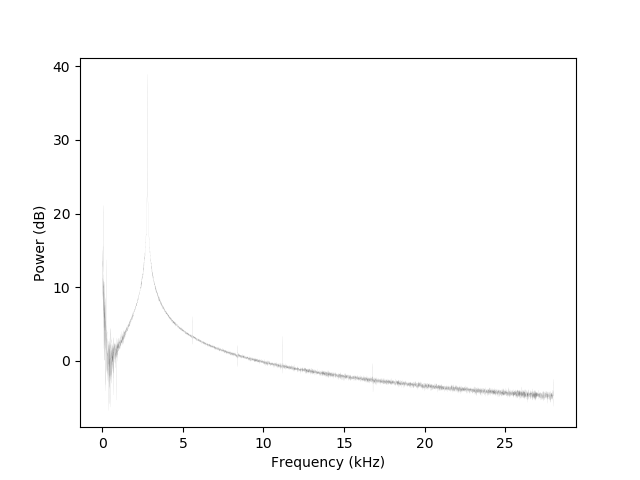
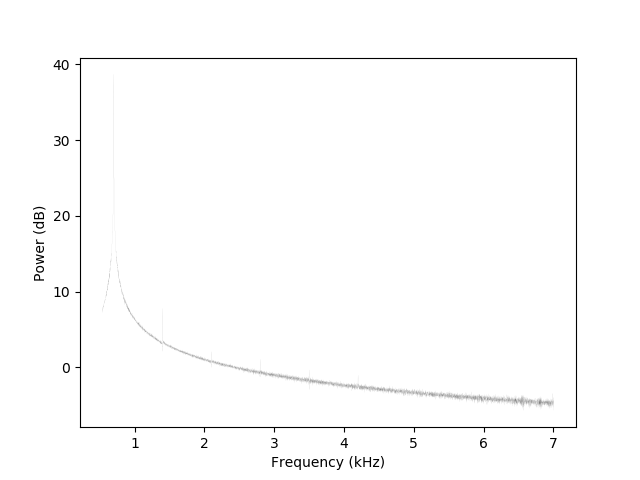
added png files for intermediate results

diff --git a/analyzeT.py b/analyzeT.py
@@ -33,7 +33,7 @@ def plotFFT(freqArray,fourier,filename,idx):
     plt.plot(freqArray[start:stop]/1000, magn[start:stop] , color='k', linewidth=0.02)
     plt.xlabel('Frequency (kHz)')
     plt.ylabel('Power (dB)')
-    plt.savefig('Results/'+filename+".png")
+    plt.savefig(filename+".png")
     plt.show()
     
 
@@ -55,7 +55,7 @@ def calcFFT(channel,rate,frate):
     # print ("Length of freqArray "+str(len(freqArray)))
     #print ("Max Value "+str('%.2f'%maxValue)+ " at "+str('%.2f'%maxFreq)+" Hz")
     #print ("Max Value 2 "+str(maxVal))
-    return fourier,freqs,idx,maxFreq,maxVal,
+    return fourier,freqs*frate,idx,maxFreq,maxVal,
 
 i=0
 
